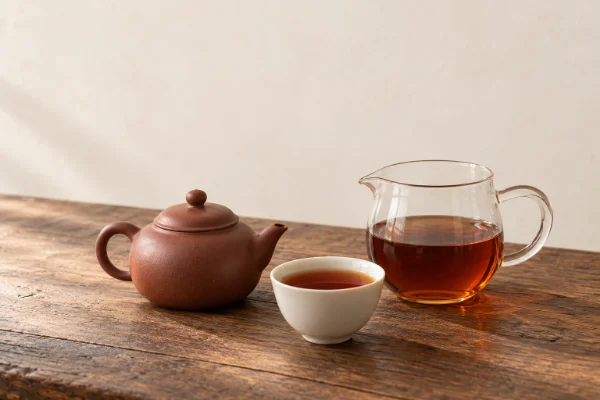
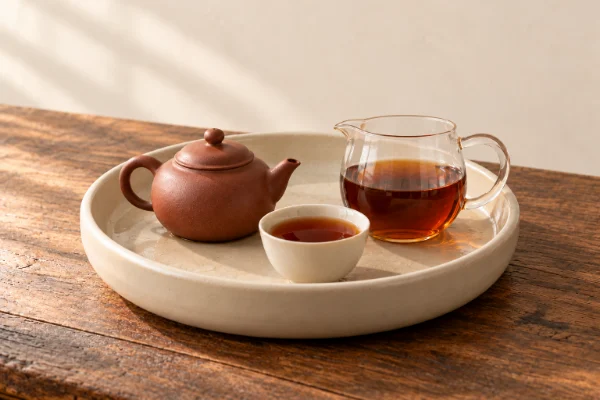
feat: refresh meal and tea journal branding

diff --git a/src/views/HomeView.vue b/src/views/HomeView.vue
@@ -7,16 +7,17 @@ import EntryListView from './EntryListView.vue'
 import TeaIllustration from '../components/tea/TeaIllustration.vue'
 import AppIcon from '../components/common/AppIcon.vue'
 const store = useEntryStore()
+const base = import.meta.env.BASE_URL
 const month = new Intl.DateTimeFormat('ko-KR', { year: 'numeric', month: 'long' }).format(new Date())
 const stats = computed(() => summarize(store.entries, localDate().slice(0, 7)))
 const mealCount = computed(() => store.entries.filter(entry => isMeal(entry) && entry.context.date.startsWith(localDate().slice(0, 7))).length)
 </script>
 <template>
   <div class="home-view"><div class="page-eyebrow">차곡차곡 · 차(茶)와 곡(穀)의 일기</div>
-    <section class="home-hero"><div class="hero-copy"><span class="hero-date">{{ month }} · 차와 밥으로 채운 하루</span><h1>오늘의 한 잔,<br /><em>오늘의 한 끼.</em></h1><p>차의 향과 밥의 온기를 차곡차곡.<span class="hero-story-invitation"><br />내게 좋았던 순간을 천천히 남겨 보세요.</span></p></div><div class="hero-teaware"><TeaIllustration /><span>한 잔과 한 끼가 머무는 일기장.</span></div></section>
-    <div class="home-record-actions"><RouterLink to="/entries/new" class="button primary new-entry-button"><AppIcon name="plus" /> 차 기록하기<span>한 잔의 마음</span></RouterLink><RouterLink to="/meals/new" class="button secondary new-entry-button"><AppIcon name="plus" /> 밥 기록하기<span>나에게 맞는 한 끼</span></RouterLink></div>
+    <section class="home-hero split-scenes-hero"><div class="hero-copy"><span class="hero-date">{{ month }}</span><h1>오늘의 한 잔,<br /><em>오늘의 한 끼.</em></h1><p>차의 향과 밥의 온기를 차곡차곡.<span class="hero-story-invitation"><br />내게 좋았던 순간을 천천히 남겨 보세요.</span></p></div><div class="hero-teaware hero-scenes"><figure><TeaIllustration /></figure><figure><img class="meal-illustration" :src="`${base}images/chagok-meal-hero.webp`" :srcset="`${base}images/chagok-meal-hero-small.webp 600w, ${base}images/chagok-meal-hero.webp 960w`" sizes="(max-width: 599px) 180px, 285px" alt="쟁반 위에 구운 두부, 청국장, 밥, 간장, 김, 가지볶음을 담은 한 끼" width="960" height="640" decoding="async" /></figure></div></section>
+    <div class="home-record-actions"><RouterLink to="/entries/new" class="button primary new-entry-button"><AppIcon name="plus" /> 차 기록하기</RouterLink><RouterLink to="/meals/new" class="button secondary new-entry-button"><AppIcon name="plus" /> 밥 기록하기</RouterLink></div>
     <div class="monthly-note"><p v-if="stats.count || mealCount">이번 달 <strong>차 {{ stats.count }}잔 · 밥 {{ mealCount }}끼</strong>를 이야기로 남겼어요.</p><p v-else>이달의 첫 이야기를 기다리고 있어요.</p></div>
-    <section class="recent-section" aria-labelledby="journal-heading"><div class="section-heading"><h2 id="journal-heading">쌓여 가는 차와 밥 이야기 <small>PAGES FROM MY JOURNAL</small></h2></div><EntryListView embedded /></section>
-    <div class="home-footer"><span>茶 · 穀</span><p>한 잔의 여유, 한 끼의 온기.<br />우리의 하루는 한 줄씩 남아요.</p><small>YOUR EVERYDAY JOURNAL</small></div>
+    <section class="recent-section" aria-labelledby="journal-heading"><div class="section-heading"><h2 id="journal-heading">밥과 차 이야기</h2></div><EntryListView embedded /></section>
+    <div class="home-footer"><span>茶 · 穀</span><p>한 잔의 여유, 한 끼의 온기.<br />우리의 하루는 한 줄씩 남아요.</p><small>Say Hello To Your Soul</small></div>
   </div>
 </template>

diff --git a/tests/e2e/brand.spec.js b/tests/e2e/brand.spec.js
@@ -2,7 +2,8 @@ import { test, expect } from '@playwright/test'
 import { readFileSync } from 'node:fs'
 import { createEntry } from '../../src/utils/entry.js'
 
-const heroDescription = '자사호와 찻잔, 차가 담긴 공도배가 놓인 차 자리'
+const heroDescription = '수반 위의 자사호, 공도배와 보이차가 담긴 찻잔'
+const mealDescription = '쟁반 위에 구운 두부, 청국장, 밥, 간장, 김, 가지볶음을 담은 한 끼'
 import { nav } from './helpers/navigation.js'
 
 function diagnostics(page) {
@@ -41,7 +42,7 @@ test('차곡차곡 branding, generated hero and native icons use the deployment 
   await start(page)
   const base = new URL(page.url()).pathname
   await expect(page).toHaveTitle('차곡차곡 · 차와 밥의 일기')
-  await expect(page.locator('.brand')).toHaveText(/차곡차곡\s*차와 밥으로 채운 하루/)
+  await expect(page.locator('.brand')).toHaveText('차곡차곡')
   await expect(page.locator('body')).not.toContainText(/Tea Life Story/i)
   const brandImage = page.locator('.brand-mark-image')
   await expect(brandImage).toHaveAttribute('alt', '')
@@ -52,6 +53,11 @@ test('차곡차곡 branding, generated hero and native icons use the deployment 
   await expect(hero).toHaveAttribute('alt', heroDescription)
   await expect(hero).toHaveAttribute('src', `${base}images/chagok-tea-hero.webp`)
   await loadedImage(hero)
+  const meal = page.locator('img.meal-illustration')
+  await expect(meal).toHaveAttribute('alt', mealDescription)
+  await expect(meal).toHaveAttribute('src', `${base}images/chagok-meal-hero.webp`)
+  await loadedImage(meal)
+  await expect(page.locator('.hero-scenes figure')).toHaveCount(2)
 
   const manifestHref = await page.locator('link[rel=manifest]').getAttribute('href')
   const manifestResponse = await request.get(new URL(manifestHref, page.url()).href)
@@ -109,6 +115,7 @@ test('generated home artwork and new brand preserve mobile diary entry and botto
     for (const width of [360, 390, 430]) {
       await page.setViewportSize({ width, height })
       await loadedImage(page.locator('img.tea-illustration'))
+      await loadedImage(page.locator('img.meal-illustration'))
       const layout = await page.locator('.new-entry-button.primary').evaluate((button) => {
         const rect = button.getBoundingClientRect()
         const target = document.elementFromPoint(rect.x + rect.width / 2, rect.y + rect.height / 2)
@@ -218,6 +225,7 @@ test('existing tea-life-story database and v1 JSON remain compatible; generated 
 
   await nav(page, '홈')
   await loadedImage(page.locator('img.tea-illustration'))
+  await loadedImage(page.locator('img.meal-illustration'))
   await page.evaluate(() => navigator.serviceWorker.ready)
   await page.reload()
   await page.waitForFunction(() => Boolean(navigator.serviceWorker.controller))
@@ -226,6 +234,7 @@ test('existing tea-life-story database and v1 JSON remain compatible; generated 
   await expect(page).toHaveTitle('차곡차곡 · 차와 밥의 일기')
   await expect(page.getByText(/오프라인 ·/)).toBeVisible()
   await loadedImage(page.locator('img.tea-illustration'))
+  await loadedImage(page.locator('img.meal-illustration'))
   await loadedImage(page.locator('.brand-mark-image'))
   await nav(page, '통계')
   await page.getByLabel('돌아보고 싶은 달', { exact: true }).fill('2026-01')

diff --git a/scripts/prepare-brand-assets.js b/scripts/prepare-brand-assets.js
@@ -7,11 +7,14 @@ const root = new URL('../', import.meta.url)
 const browser = await chromium.launch()
 try {
   const page = await browser.newPage()
-  const hero = (await readFile(new URL('assets/generated/chagok-tea-hero-source.png', root))).toString('base64')
-  const mark = (await readFile(new URL('assets/generated/chagok-mark-source.png', root))).toString('base64')
+  const hero = (await readFile(new URL('assets/generated/chagok-tea-scene-no-strainer-source.png', root))).toString('base64')
+  const meal = (await readFile(new URL('assets/generated/chagok-meal-scene-inner-source.png', root))).toString('base64')
+  const mark = (await readFile(new URL('assets/generated/chagok-rice-tea-logo-source.png', root))).toString('base64')
   const variants = [
     { name: 'images/chagok-tea-hero.webp', source: hero, width: 960, height: 640, type: 'image/webp' },
     { name: 'images/chagok-tea-hero-small.webp', source: hero, width: 600, height: 400, type: 'image/webp' },
+    { name: 'images/chagok-meal-hero.webp', source: meal, width: 960, height: 640, type: 'image/webp' },
+    { name: 'images/chagok-meal-hero-small.webp', source: meal, width: 600, height: 400, type: 'image/webp' },
     { name: 'icons/chagok-icon-192.png', source: mark, width: 192, height: 192, type: 'image/png' },
     { name: 'icons/chagok-icon-512.png', source: mark, width: 512, height: 512, type: 'image/png' },
     { name: 'icons/chagok-icon-maskable-512.png', source: mark, width: 512, height: 512, type: 'image/png', padding: .1 },

diff --git a/src/App.vue b/src/App.vue
@@ -41,7 +41,7 @@ onUnmounted(() => {
     <div v-if="needRefresh" class="update-note"><span>새 버전이 준비됐어요. 작성 중이면 저장 후 업데이트하세요.</span><button type="button" @click="updateServiceWorker()">업데이트</button><button type="button" aria-label="업데이트 알림 닫기" @click="needRefresh = false">닫기</button></div>
     <div v-if="app.message" class="notice" :class="app.tone" :role="app.tone === 'error' ? 'alert' : 'status'"><span>{{ app.message }}</span><button type="button" aria-label="알림 닫기" @click="app.message = ''">×</button></div>
     <main id="main-content"><RouterView v-if="ready" v-slot="{ Component, route }"><component :is="Component" :key="route.fullPath" /></RouterView><div v-else class="empty-state"><template v-if="error"><p role="alert">{{ error }}</p><button class="button primary" @click="initialize">다시 시도</button></template><p v-else role="status">일기장을 펼치고 있어요…</p></div>
-      <footer class="app-copyright">© 차곡차곡</footer>
+      <footer class="app-copyright">(C)티셀라 햇살차방</footer>
     </main>
     <BottomNavigation />
   </div>

diff --git a/src/components/tea/TeaIllustration.vue b/src/components/tea/TeaIllustration.vue
@@ -2,5 +2,5 @@
 const base = import.meta.env.BASE_URL
 </script>
 <template>
-  <img class="tea-illustration" :src="`${base}images/chagok-tea-hero.webp`" :srcset="`${base}images/chagok-tea-hero-small.webp 600w, ${base}images/chagok-tea-hero.webp 960w`" sizes="(max-width: 599px) and (max-height: 740px) 198px, 280px" alt="자사호와 찻잔, 차가 담긴 공도배가 놓인 차 자리" width="960" height="640" decoding="async" fetchpriority="high" />
+  <img class="tea-illustration" :src="`${base}images/chagok-tea-hero.webp`" :srcset="`${base}images/chagok-tea-hero-small.webp 600w, ${base}images/chagok-tea-hero.webp 960w`" sizes="(max-width: 599px) 180px, 285px" alt="수반 위의 자사호, 공도배와 보이차가 담긴 찻잔" width="960" height="640" decoding="async" fetchpriority="high" />
 </template>

diff --git a/src/components/AppHeader.vue b/src/components/AppHeader.vue
@@ -3,7 +3,7 @@ const mark = `${import.meta.env.BASE_URL}icons/chagok-icon-192.png`
 </script>
 <template>
   <header class="app-header">
-    <RouterLink to="/" class="brand"><span class="brand-mark" aria-hidden="true"><img :src="mark" class="brand-mark-image" alt="" aria-hidden="true" width="44" height="44" /></span><span>차곡차곡<small>차와 밥으로 채운 하루</small></span></RouterLink>
+    <RouterLink to="/" class="brand"><span class="brand-mark" aria-hidden="true"><img :src="mark" class="brand-mark-image" alt="" aria-hidden="true" width="44" height="44" /></span><span>차곡차곡</span></RouterLink>
     <span class="header-note">한 잔과 한 끼의 이야기.</span>
   </header>
 </template>

diff --git a/src/styles.css b/src/styles.css
@@ -2105,6 +2105,10 @@ input::-webkit-inner-spin-button {
   .entry-form-view .record-kind-switch { margin-bottom: 8px; }
   .entry-form-view .record-kind-switch a { padding: 8px; }
 }
+.split-scenes-hero { grid-template-columns: minmax(0,1fr); }
+.hero-scenes { display: grid; grid-template-columns: repeat(2,minmax(0,1fr)); gap: 12px; }
+.hero-scenes figure { margin: 0; min-width: 0; }
+.hero-scenes .tea-illustration,.hero-scenes .meal-illustration { display: block; width: 100%; height: auto; margin: 0; aspect-ratio: 3 / 2; object-fit: contain; border-radius: 8px; }
 @media(prefers-reduced-motion:reduce) {
   * {
     transition: none!important;

diff --git a/PROJECT_PLAN.md b/PROJECT_PLAN.md
@@ -1,10 +1,38 @@
 # 차곡차곡 단계별 개발 계획
 
-기준일: 2026-10-16
+기준일: 2026-10-19
 
 ## 1. 이번 작업과 workspace 상태
 
-현재 작업은 로컬 검증한 차·밥 통합 일기의 공개 배포이다. 사용자가 2026-10-16 배포를 요청했다. 집밥·외식·배달 기록, 실제 재료·구매처, 나중에 추가하는 여러 식후 느낌, 편했던 조합 찾기를 기존 main → Actions → Pages로 반영한다.
+2026-10-19 홈 문구·사진·로고 공개 배포: 사용자가 현재까지 검증한 변경 전체의 배포를 요청했다. 범위는 홈/헤더/저작권 문구 정리, 차·밥 사진 분리와 최종 구성, 평면 밥·차 심볼과 원본/프롬프트 보존, 관련 브랜드 검사와 문서다. 저장 모델·기록/초안·배포 설정은 변경하지 않는다. 원격/로컬 main 기준 6757648839dd1dea562907959790319f49d6c766 일치를 확인했다. 이번 배포 요청에서 npm run lint, 하위 경로 브랜드/폰트/PWA E2E 7/7(13.9초), VITE_BASE_PATH=/TeaLifeStory/ npm run build(96모듈·PWA 41개 3065.63KiB)가 통과했다. GitHub Actions → Pages 배포와 실제 공개 주소 검증은 진행 중이다. 아래 항목의 배포 전 검증 기록은 각 작업 당시의 상태다.
+
+2026-10-19 기록 목록 영문 보조 문구 삭제: HomeView.vue의 `밥과 차 이야기` 아래 `PAGES FROM MY JOURNAL` small 요소만 삭제하고 명세를 맞췄다. 다른 화면에서도 사용하는 공통 제목 스타일은 유지한다. npm run build·npm run lint 통과. production 미리보기 4181의 격리된 Chromium에서 360×640, 390×844, 430×640, 1280×900 총 4개 화면을 확인했다. 제목이 `밥과 차 이야기`와 정확히 일치하고 small 요소/이전 영문 없음·가로 넘침 없음·기록 버튼 접근·홈 하단 영문 유지·runtime/asset 오류 없음을 확인했다. 390px 캡처를 실제 열어 제목 표시를 확인했다. 캡처/보고서는 test-results/home-journal-heading에 보관한다. 정적 문구 삭제로 전체 단위/E2E·오프라인·실기기 설치는 이번에 재검증하지 않았으며 공개 배포는 실행하지 않았다.
+
+2026-10-19 밥·차 심볼 로고: built-in image_gen으로 밥공기/쌀알과 자사호를 붉은 갈색 평면 심볼로 생성해 사진형 마크를 대체했다. 새 원본 assets/generated/chagok-rice-tea-logo-source.png(1254×1254)와 전체 프롬프트를 보존하고 기존 최적화 스크립트의 마크 입력·명세·README를 맞췄다. 헤더·favicon·PWA·Apple에서 같은 로고 PNG를 사용하며 홈 사진 원본과 앞선 수정은 유지한다. npm run icons·npm run lint·npm run build 통과(PWA 41개 3065.40KiB). 하위 경로 브랜드/PWA E2E 5/5(9.7초) 통과: 이미지·아이콘 크기/manifest/base·모바일 입력/고정 메뉴·이전 기록/초안/백업·오프라인·설치 가능성 확인. 루트 production 4179의 격리된 Chromium에서 360×640, 390×844, 430×640, 1280×900 총 4개 화면의 44×44px 헤더 로고·이름·사진 2개·캡션 없음·기록 버튼 접근·가로 넘침 없음·runtime/asset 오류 없음을 확인했다. 390px 헤더 캡처와 360px 전체 캡처를 실제 열어 형태를 검토했다. 온라인 준비/새로고침 후 오프라인 PNG 4개의 SHA-256이 최신 public 파일과 같으며, 홈 WebP 4개는 로고 수정 전후 해시가 동일함을 확인했다. 캡처/보고서는 test-results/rice-tea-logo에 보관한다. 전체 단위/E2E·실기기 설치는 이번에 재검증하지 않았으며 공개 배포는 실행하지 않았다.
+
+2026-10-19 홈 사진 하단 문구 삭제: HomeView.vue의 `차 한 잔`, `밥 한 끼` figcaption 두 개와 사용하지 않는 캡션 CSS를 삭제하고 명세를 맞췄다. 사진·대체 텍스트·작성 버튼은 유지한다. npm run build·npm run lint 통과. production 미리보기 4179의 격리된 Chromium에서 360×640, 390×844, 430×640, 1280×900 총 4개 화면을 검증했다. 캡션/갤러리 텍스트 없음·사진 두 개 로딩/대체 텍스트·기록 버튼과 하단 메뉴 접근·가로 넘침 없음·서비스 워커 준비·runtime/asset 오류 없음을 확인했다. 390px 캡처를 실제 열어 삭제 결과를 확인했다. 캡처/보고서는 test-results/home-no-captions에 보관한다. 정적 문구 삭제로 전체 단위/E2E·오프라인·실기기 설치는 이번에 재검증하지 않았으며 공개 배포는 실행하지 않았다.
+
+2026-10-19 밥 사진 상차림 재배치: 기존 밥 사진을 built-in image_gen으로 편집해 밥/청국장은 먹는 사람 가까운 앞쪽(안쪽), 반찬 네 그릇은 그 너머 뒤쪽/가장자리(바깥쪽)로 옮겼다. 새 원본 assets/generated/chagok-meal-scene-inner-source.png와 전체 프롬프트를 보존하고 최적화 입력·명세·README를 맞췄다. 음식 구성과 대체 텍스트·레이아웃은 유지한다. npm run icons·npm run lint·npm run build 통과(PWA 41개 3277.94KiB). 하위 경로 브랜드 E2E 3/3(8.7초) 통과: 이미지/manifest/base·모바일 입력/메뉴·기존 차 기록/초안/백업·오프라인 회귀 확인. 루트 production에서 360×640, 390×844, 430×844, 1280×900 총 4개 화면의 사진 2개·버튼 접근·가로 넘침 없음·runtime/asset 오류 없음을 확인하고 390px 캡처를 실제 열어 상차림을 확인했다. 온라인 준비/새로고침 후 오프라인 WebP 4개의 SHA-256이 최신 public 파일과 같음을 확인했다. 차 WebP 2개·마크 PNG 4개는 수정 전후 동일하다. 캡처/보고서는 test-results/meal-inner-arrangement, 미리보기는 http://127.0.0.1:4181/ 이다. 전체 단위/E2E·실기기 설치는 이번에 재검증하지 않았으며 공개 배포는 실행하지 않았다.
+
+2026-10-19 첫 차 사진 거름망 제거: 기존 차 사진을 built-in image_gen으로 편집해 공도배 위 금속 거름망과 손잡이/지지부를 제거하고 열린 유리 입구를 복원했다. 새 원본은 assets/generated/chagok-tea-scene-no-strainer-source.png에 보존하며 이전 원본·밥 사진·헤더/PWA 마크는 유지한다. 차 대체 텍스트·최적화 입력·명세·README와 전체 프롬프트를 맞췄다. npm run icons·npm run lint·npm run build 통과(PWA 41개 3285.69KiB). 하위 경로 브랜드/PWA 5/5(11.1초) 통과: 이미지·모바일 입력/고정 메뉴·기존 차 데이터/초안/백업·오프라인·설치 가능성 회귀 확인. 루트 production에서 360×640, 390×844, 430×844, 1280×900의 사진 2개·버튼 접근·가로 넘침 없음·runtime/asset 오류 없음을 확인했다. 390px 캡처를 실제 열어 거름망 제거와 사진 구성을 확인했다. 서비스 워커 준비 후 새로고침해 오프라인에서 차/밥 WebP 4개의 SHA-256이 현재 public 파일과 같음을 확인했다. 밥 WebP 2개·마크 PNG 4개는 수정 전후 해시가 동일하다. 검수 캡처/보고서는 test-results/tea-no-strainer, 미리보기는 http://127.0.0.1:4180/ 이다. 전체 단위/E2E·실기기 설치는 이번에 재검증하지 않았으며 공개 배포는 실행하지 않았다.
+
+2026-10-19 차 자리/밥상 사진 분리: 사용자 구성 요청에 맞춰 built-in image_gen으로 두 사진을 편집하고 assets/generated/chagok-{tea,meal}-scene-source.png에 보존했다. 차는 수반·자사호·거름망·공도배·보이차 찻잔, 밥은 쟁반 위 구운 두부·청국장·밥·간장·김·가지볶음을 실제 결과에서 확인했다. 전체 프롬프트·입력·출력 위치는 assets/generated/PROMPTS.md에 보존한다. 홈 사진을 `차 한 잔`/`밥 한 끼` 두 장으로 나란히 구분하고 반응형 레이아웃·대체 텍스트·브랜드 검사·최적화 스크립트·명세/README를 맞췄다. 앞서 만든 헤더/PWA 마크는 유지한다. npm run icons·npm run lint·npm run build 통과(PWA precache 41개 3293.49KiB). 하위 경로 브랜드/PWA 5/5(10.0초), 루트 브랜드/폰트/PWA 7/7(14.6초) 통과: 두 사진/아이콘/base·모바일 입력/고정 메뉴·기존 데이터/초안/백업·오프라인·Chromium 설치 가능성 회귀 확인. 루트 production에서 360/390/430px×640/844 및 1280×900의 7개 화면을 촬영해 사진 2개와 캡션·나란한 배치·가로 넘침 없음·두 기록 버튼의 메뉴 가림 없음·runtime/asset 오류 없음을 확인했다. 360px/430px/PC 캡처를 실제 열어 두 사진 구성을 확인했다. 온라인 준비 후 오프라인에서 두 사진이 보이고 WebP 4개의 SHA-256이 현재 배포 파일과 일치함을 확인했다. 캡처는 test-results/tea-meal-scenes, 미리보기는 http://127.0.0.1:4179/ 이다. 전체 단위/E2E·실기기 설치는 이번에 재검증하지 않았으며 공개 배포는 실행하지 않았다.
+
+2026-10-19 차·밥 이미지 자연스러운 배치: 사용자 요청에 따라 첫 차·밥 통합 사진을 built-in image_gen으로 다시 편집했다. 홈은 쟁반·수저를 갖춘 한 사람의 밥상에 차가 놓인 장면, 마크는 밥 양·그릇 비율·간격을 맞춘 장면으로 변경했다. 새 원본은 assets/generated/chagok-tea-meal-{hero,mark}-natural-source.png(1536×1024 / 1254×1254)에 보존하고 이전 원본은 유지한다. 최적화 스크립트·대체 텍스트·브랜드 검사·명세·README·전체 프롬프트를 맞췄다. npm run icons·npm run lint·npm run build 통과(PWA 37개 3180.05KiB). 하위 경로 브랜드 E2E 3/3 통과(8.5초): 사진/아이콘/manifest·모바일 입력/메뉴·기존 차 백업/초안·오프라인 회귀 확인. 루트 production에서 360/390/430px×640/844 및 1280×900의 7개 화면을 촬영해 로딩·44px 마크·넘침 없음·runtime/asset 오류 없음을 확인하고 360px/390px/PC 화면을 실제 열어 시각 확인했다. 첫 온라인 준비 후 오프라인에서 WebP 2개·PNG 4개를 다시 읽어 SHA-256이 새 배포 파일과 동일함을 확인했다. 캡처는 test-results/tea-meal-natural에 보관한다. 미리보기는 이전 이미지 캐시와 분리된 http://127.0.0.1:4178/ 이다. 전체 단위/E2E·실기기 설치는 이번에 재검증하지 않았으며 공개 배포는 실행하지 않았다.
+
+2026-10-19 차·밥 이미지 통합: 헤더 앱 마크와 홈 사진에 밥도 함께 보이도록 기존 이미지 두 장을 built-in image_gen으로 편집했다. 새 원본은 assets/generated/chagok-tea-meal-{hero,mark}-source.png에 보존하고 전체 편집 프롬프트·입력·기본 저장 경로는 assets/generated/PROMPTS.md에 기록했다. 기존 원본은 보존했다. npm run icons로 홈 WebP 2개(960×640 97,226B / 600×400 43,998B)와 헤더/favicon/PWA/Apple PNG 4개를 생성하고 홈 대체 텍스트·반응형 sizes·브랜드 검사·명세·README를 맞췄다. npm run lint·npm run build 통과(PWA precache 37개, 3170.92KiB). 브랜드/PWA E2E는 하위 경로 5/5(10.2초), 루트 5/5(9.5초) 통과: 이미지/manifest/아이콘 경로·기존 차 데이터/초안/백업·새 화면·오프라인·Chromium 설치 가능성 확인. 별도 production 검수에서 360/390/430px×640/844 및 1280×900 총 7개 화면의 이미지 로딩·44px 헤더 마크·contain 비율·넘침 없음·asset 404/런타임 오류 없음을 확인하고 360px/390px/PC 캡처를 실제 열어 차와 밥이 함께 보임을 확인했다. 사진은 test-results/tea-meal-images에 보관한다. 전체 단위/E2E와 실제 iOS/Android 설치는 이번 작업에서 재검증하지 않았다. 공개 배포는 실행하지 않았다.
+
+2026-10-19 작성 버튼 보조 문구 삭제: 홈의 `차 기록하기` 아래 `한 잔의 마음`, `밥 기록하기` 아래 `나에게 맞는 한 끼`를 삭제했다. `src/views/HomeView.vue`의 두 보조 문구와 명세·계획만 수정했다. npm run build·npm run lint 통과. production 미리보기의 격리된 Chromium에서 360/390/430×640px의 차·밥 버튼 6개를 확인했다. 보조 문구 없음·44px 이상 터치 높이·하단 메뉴 가림/가로 넘침 없음·각 작성 화면 이동과 이름 입력칸 표시·런타임 오류 없음을 확인했다. 정적 문구 수정으로 전체 단위/E2E는 재실행하지 않았으며 공개 배포는 실행하지 않았다.
+
+2026-10-19 소개 문구 삭제: `차와 밥으로 채운 하루`를 헤더 앱 이름 아래와 홈 월 표시 옆에서 제거했다. `src/components/AppHeader.vue`, `src/views/HomeView.vue`, 기존 브랜드 검사 기대값과 명세·계획을 수정했다. npm run lint·npm run build 통과. 관련 브랜드 E2E 3/3 통과(9.1초): 모바일 메뉴/입력·기존 데이터/백업·오프라인 회귀 확인. 별도 Chromium의 360/390/430px에서 문구 삭제·앱 이름/월 표시 유지·가로 넘침 없음을 확인했다. 전체 단위/E2E는 재실행하지 않았으며 공개 배포는 실행하지 않았다.
+
+2026-10-19 목록 제목 변경: 홈의 `쌓여 가는 차와 밥 이야기`를 `밥과 차 이야기`로 변경했다. `src/views/HomeView.vue`의 제목과 명세·계획만 수정했다. npm run build·npm run lint 통과. production 미리보기의 격리된 Chromium에서 360/390/430px 제목 표시·가로 넘침 없음·런타임 오류 없음을 확인했고 앞선 영문/저작권 하단 문구가 유지됨을 검증했다. 정적 문구 수정으로 전체 단위/E2E는 재실행하지 않았으며 공개 배포는 실행하지 않았다.
+
+2026-10-19 추가 작업은 공통 하단 저작권 문구를 `© 차곡차곡`에서 `(C)티셀라 햇살차방`으로 변경하는 것이다. `src/App.vue`의 해당 텍스트와 명세·계획만 수정했다. npm run build·npm run lint 통과. production 미리보기의 격리된 Chromium에서 360/390/430px의 홈·차 작성·밥 작성·설정, 총 12개 화면을 확인했다. 정확한 문구 한 번 표시·가로 넘침 없음·하단 메뉴 및 저장 버튼 가림 없음·런타임 오류 없음을 확인했다. 정적 문구 수정으로 전체 단위/E2E는 재실행하지 않았다. 이번 변경의 공개 배포는 실행하지 않았다.
+
+2026-10-19 작업은 홈 하단 영문 문구를 `YOUR EVERYDAY JOURNAL`에서 `Say Hello To Your Soul`로 변경하는 것이다. `src/views/HomeView.vue`의 해당 텍스트와 명세·계획만 수정했다. npm run build·npm run lint 통과. production 미리보기의 격리된 Chromium에서 360/390/430px 모두 요청한 대소문자 그대로 표시되고 가로 넘침·하단 메뉴 가림·런타임 오류가 없음을 확인했다. 정적 문구 수정으로 전체 단위/E2E는 재실행하지 않았다. 이번 변경의 원격 push·공개 배포는 실행하지 않았다.
+
+2026-10-16 작업은 로컬 검증한 차·밥 통합 일기의 공개 배포였다. 사용자가 2026-10-16 배포를 요청했다. 집밥·외식·배달 기록, 실제 재료·구매처, 나중에 추가하는 여러 식후 느낌, 편했던 조합 찾기를 기존 main → Actions → Pages로 반영한다.
 
 - 구현: 차·밥 통합 목록/검색, 독립 자동 초안, 간단/세부 밥 작성, 식사 수정·삭제·사진, 구매 노트와 식사별 스냅샷, 시각별 식후 느낌 CRUD, 재료 AND·음식점·기간·느낌 돌아보기.
 - 데이터: IndexedDB v2는 purchases 저장소만 추가. JSON v2에 구매/두 초안 포함, v1 차 백업 호환, 전체 6개 저장소 원자 복원, 차 CSV 26열 유지·밥 CSV 19열 별도.

diff --git a/PROJECT_SPEC.md b/PROJECT_SPEC.md
@@ -1,6 +1,6 @@
 # 차곡차곡 제품 명세
 
-기준일: 2026-10-15
+기준일: 2026-10-19
 
 이 문서는 제품 목적과 요구사항을 관리한다. 개발 지침은 `AGENTS.md`, 단계별 계획과 완료·검증 상태는 `PROJECT_PLAN.md`, 실행 방법은 `README.md`에서 관리한다.
 
@@ -34,10 +34,16 @@
 - 현대적인 모바일 앱 형태, 강한 그라데이션·화려한 그림자 지양
 - 전체 UI는 로컬 Pretendard Variable 웹폰트로 통일하고 제목·본문·버튼·입력·영문 소제목·통계 숫자를 굵기로 구분한다. 폰트 로딩 전에는 시스템 글꼴로 읽을 수 있게 하고, 한자·이모지 등 미지원 문자는 시스템 fallback을 유지한다. 폰트 원본과 OFL 라이선스를 보존하고 외부 CDN 요청 없이 PWA 오프라인 캐시에 포함한다.
 - 홈과 기록 목록은 한 화면으로 통합한다. 상단은 `차곡차곡`과 `오늘은 어떤 차를 마셨나요?`를 중심으로 구성한다. 월간 기록 수는 작은 일기 문장으로 표시하고 검색·필터·정렬과 전체 기록을 제공한다.
-- 공통 화면의 본문 맨 아래에 `© 차곡차곡` 저작권 문구를 작고 차분하게 표시한다. 고정 하단 메뉴와 작성 화면 저장 버튼에 가리지 않도록 스크롤 여백과 기기 안전 영역을 유지한다.
+- 공통 화면의 본문 맨 아래에 `(C)티셀라 햇살차방` 저작권 문구를 작고 차분하게 표시한다. 고정 하단 메뉴와 작성 화면 저장 버튼에 가리지 않도록 스크롤 여백과 기기 안전 영역을 유지한다.
+- 홈 하단 영문 문구는 대소문자를 유지해 `Say Hello To Your Soul`로 표시한다.
+- 홈 기록 목록의 제목은 `밥과 차 이야기`만 표시하고 아래에 영문 보조 문구를 두지 않는다.
+- 홈의 차·밥 작성 버튼에는 `차 기록하기`, `밥 기록하기`만 표시하고 하단 보조 문구를 두지 않는다.
+- 헤더의 앱 이름 아래와 홈 월 표시 옆에 `차와 밥으로 채운 하루` 문구를 표시하지 않는다. 앱 이름과 월 표시는 유지한다.
 - `茶` 표식, 얇은 격자, 종이 페이지와 한글·영문 소제목을 활용한다. 기록 카드에서는 When과 저장된 Where / Who / Why, 별점·감상을 읽을 수 있게 한다.
 - 작성 화면은 이어지는 노트 페이지처럼 구분하며 이유·감상·메모에 넓은 줄 노트 입력 공간을 제공한다. 별점·필수 이름·선택 필드·초안과 저장 흐름은 유지한다.
-- 자사호·찻잔·차가 담긴 공도배는 따뜻한 자연광과 재료감의 생성형 정물 사진으로 표현한다. 단독 자사호 사진을 헤더·favicon·PWA·Apple 아이콘에 적용하고 이름·theme/background 색상을 일치시킨다. 원본·생성 프롬프트는 저장소에 보관하고 앱용 WebP/PNG에는 크기·포맷·maskable 안전 여백만 조정한다. 배포 시 큰 생성 원본은 포함하지 않으며 WebP도 오프라인 캐시에 포함한다.
+- 홈 메인 사진은 차 사진과 밥 사진 두 장을 나란히 배치하고 사진 아래 별도의 문구는 두지 않는다. 차 사진은 수반 위 자사호·공도배·찻잔을 표현하며 공도배와 잔 안에는 보이차가 보이고 거름망은 두지 않는다. 밥 사진은 나무 쟁반 위 구운 두부·청국장·밥·간장·김·가지볶음과 수저를 각각 구분해 표현한다. 음식은 일상적인 양과 자연스러운 그릇 비율로 담고 건강 효과를 설명하는 문구나 점수는 붙이지 않는다. 모바일에서도 사진과 작성 버튼이 넘치거나 고정 메뉴에 가리지 않게 한다. 헤더·favicon·PWA·Apple의 밥공기/자사호 마크는 유지한다. 아이보리·붉은 갈색과 자연광·재료감을 두 사진에 맞추고 원본·입력·전체 프롬프트를 assets/generated에 보존한다. 사진별 960×640/600×400 WebP와 마크 PNG만 배포하고 오프라인 캐시에 포함하며 각각의 대체 텍스트를 제공한다.
+- 헤더·favicon·PWA·Apple의 밥공기/자사호 마크는 사진형 이미지를 대체한 평면 심볼 로고로 통일한다. 붉은 갈색의 단순한 곡선과 여백으로 밥공기·쌀알과 뚜껑·주둥이·손잡이가 있는 자사호를 표현하고 44px 헤더 크기에서 구분되게 한다. 로고에는 별도 글자나 장식 문구를 넣지 않고 기존 `차곡차곡` 이름을 함께 표시한다. 새 생성 원본과 전체 프롬프트를 보존하며 홈 사진 두 장은 유지한다.
+- 밥 사진에서 밥과 청국장은 먹는 사람과 가까운 앞쪽(안쪽)에, 구운 두부·간장·김·가지볶음은 그 너머 뒤쪽과 가장자리(바깥쪽)에 배치한다. 기존 음식 구성·그릇·쟁반·수저와 자연광 분위기는 유지한다.
 - 문구는 짧고 따뜻한 한국어로 작성하되 저장 실패·삭제·전체 교체 복원의 영향은 명확히 알린다. 기록이 없는 월에는 0잔의 어색한 문장 대신 첫 이야기를 권한다.
 - 차 관련 용어는 사용자의 표기 방침에 따라 `차구`, `차도`, `차관`처럼 `차`를 사용한다. 현재 UI의 `다구`는 `차구`로 통일하며 `다도`는 현재 제품 문구에서 발견되지 않았다. 기본 도구의 기존 저장값 `다관`은 입력 버튼·설정 목록/수정 입력·기록 카드·상세에서 `차관`으로 표시한다. 별도의 사용자 항목 `차관`도 있으면 이전 값의 선택/목록 표시를 `차관 (기존 항목)`으로 구분한다. 직접 지은 이름의 일부 문자열을 일괄 바꾸지 않으며 기록·초안·옵션·JSON·CSV 원본을 자동 변경하지 않는다. 설정에서 이름을 수정·저장한 경우에만 해당 옵션의 이름이 바뀐다.
 

diff --git a/README.md b/README.md
@@ -2,9 +2,9 @@
 
 차(茶) 한 잔과 곡(穀), 밥 한 끼의 경험을 기록하는 모바일 중심 Vue PWA입니다. 서버와 회원가입 없이 IndexedDB에 기록을 저장합니다.
 
-보이차와 자사호를 닮은 붉은 갈색, 따뜻한 종이빛과 차분한 나무빛으로 구성했습니다. 홈의 생성형 자사호·공도배·찻잔 사진과 짧고 다정한 문구로 한 잔의 이야기를 천천히 남깁니다. 표시 이름은 `차곡차곡`이며 기존 저장소·백업 식별자는 이전 데이터를 계속 읽도록 유지합니다.
+보이차와 자사호를 닮은 붉은 갈색, 따뜻한 종이빛과 차분한 나무빛으로 구성했습니다. 홈은 수반 위 자사호·공도배·보이차 찻잔 사진과, 쟁반 위 구운 두부·청국장·밥·간장·김·가지볶음 사진을 두 장으로 나눴습니다. 헤더와 앱 아이콘에는 밥공기와 자사호를 뜻하는 붉은 갈색의 평면 심볼 로고를 사용합니다. 표시 이름은 `차곡차곡`이며 기존 저장소·백업 식별자는 이전 데이터를 계속 읽도록 유지합니다.
 
-생성 원본과 전체 최종 프롬프트는 `assets/generated/PROMPTS.md`에 보관합니다. built-in image_gen으로 새 사진 2개를 만들었으며 앱에는 WebP와 크기별 PNG만 배포합니다. `npm run icons`로 보존된 원본의 배포 파일을 재생성할 수 있습니다(기존 Playwright Chromium 설치 필요). 이미지 내용은 원본을 유지하고 크기·포맷·maskable 안전 여백만 조정합니다.
+생성 원본은 `assets/generated`에, 전체 최종 프롬프트는 `assets/generated/PROMPTS.md`에 보관합니다. built-in image_gen으로 만든 차/밥 사진·심볼 로고와 이전 원본을 보존합니다. 앱에는 WebP와 크기별 PNG만 배포합니다. `npm run icons`는 `chagok-tea-scene-no-strainer-source.png`, `chagok-meal-scene-inner-source.png`를 각각 960/600px WebP로 만들고 `chagok-rice-tea-logo-source.png`로 앱 아이콘을 만듭니다(기존 Playwright Chromium 설치 필요). 크기·포맷·maskable 안전 여백 외에 내용을 다시 그리지 않습니다.
 
 전체 UI에는 [Pretendard](https://github.com/orioncactus/pretendard)의 v1.3.9 Variable 웹폰트를 사용합니다. 원본 WOFF2·SIL OFL 라이선스·출처/해시는 `public/fonts`에 보관합니다. 앱 안에서 폰트를 제공하고 preload·swap·PWA 캐시를 적용해 외부 CDN에 요청하지 않습니다. 로딩 전이나 미지원 한자·이모지는 시스템 글꼴로 보완하며 기록 내용은 바꾸지 않습니다.
 
